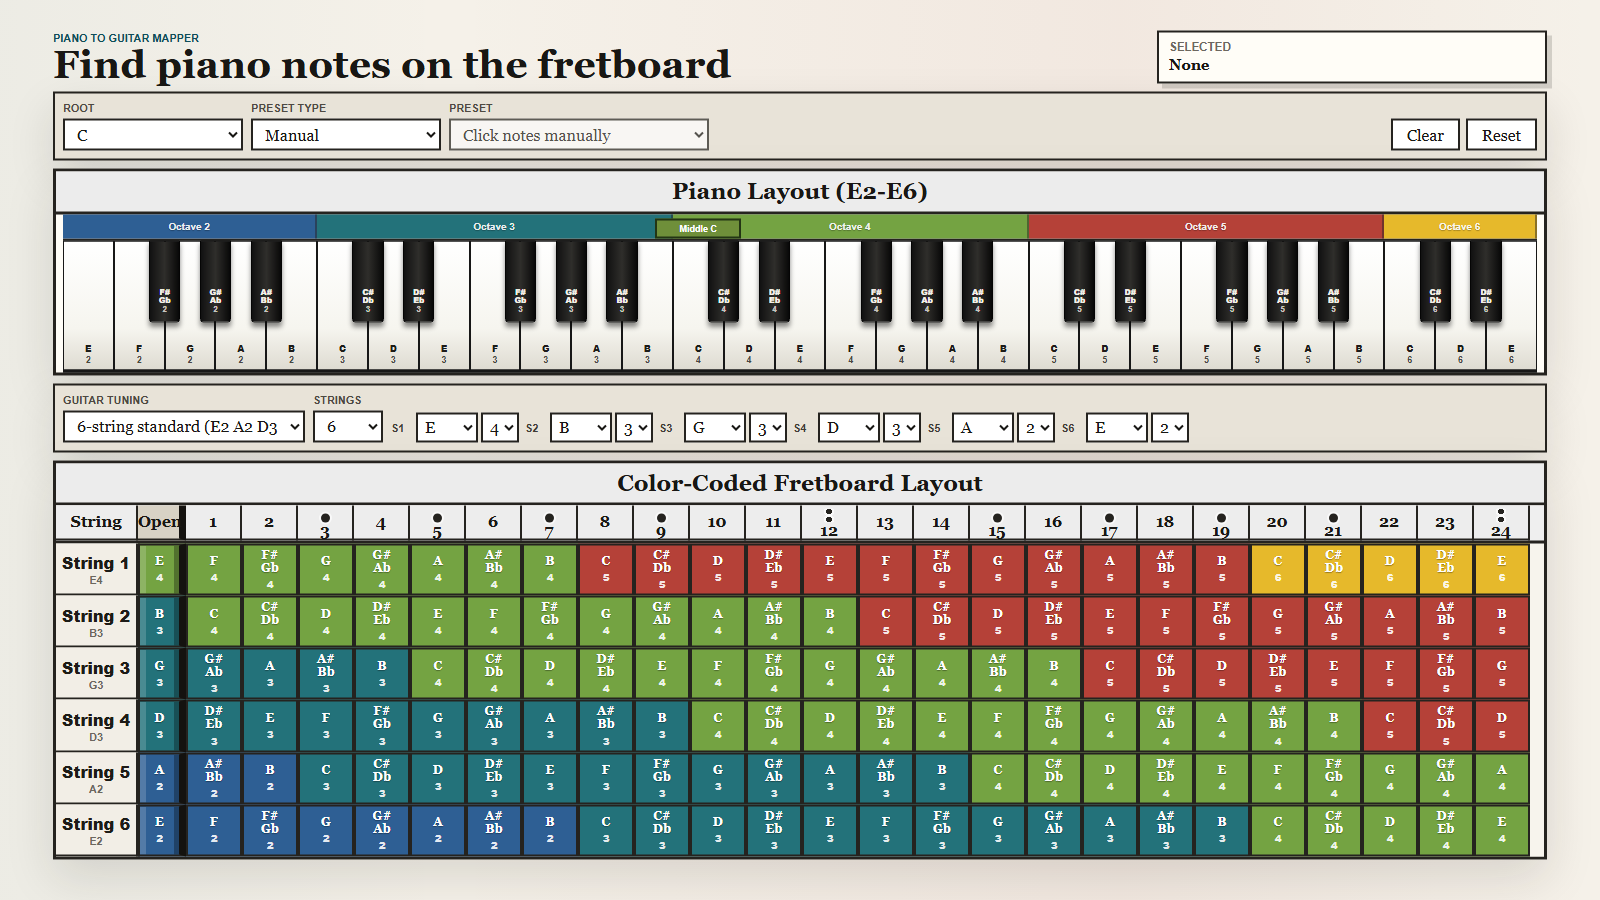
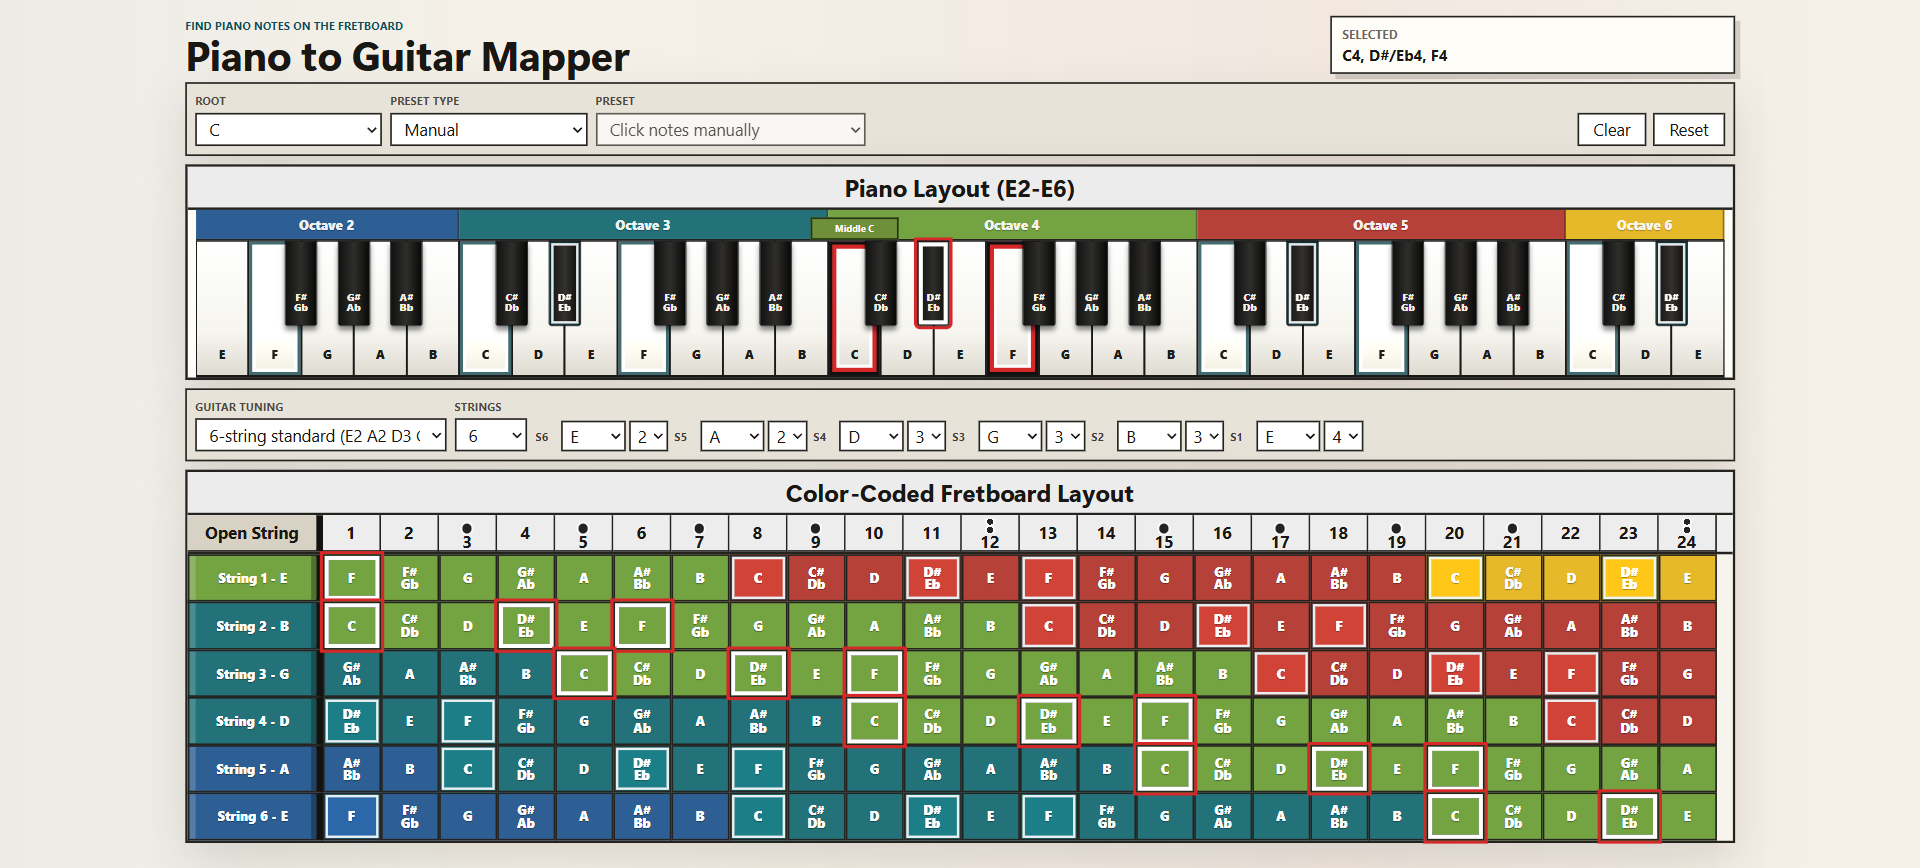
Add Open C tuning option; refactor UI elements and styles for consistency

diff --git a/styles.css b/styles.css
@@ -9,8 +9,7 @@
   --accent-strong: #0f4d59;
   --select: #ffffff;
   --shadow: 0 18px 45px rgba(31, 29, 24, 0.13);
-  --string-label-w: 82px;
-  --open-cell-w: 48px;
+  --open-string-w: 130px;
   --cell-w: 56px;
   --string-h: 46px;
   --white-key-w: 26px;
@@ -19,7 +18,9 @@
   --app-scale: 1;
   --app-left: 0px;
   --app-top: 0px;
-  font-family: Georgia, "Times New Roman", serif;
+  --font-ui: "Aptos", "Segoe UI Variable", "Segoe UI", "Inter", "Helvetica Neue", Arial, sans-serif;
+  --font-display: "Aptos Display", "Segoe UI Variable Display", "Segoe UI", "Inter", "Helvetica Neue", Arial, sans-serif;
+  font-family: var(--font-ui);
 }
 
 * {
@@ -68,7 +69,7 @@ select {
 .eyebrow {
   margin: 0 0 2px;
   color: var(--accent-strong);
-  font-family: Arial, Helvetica, sans-serif;
+  font-family: var(--font-ui);
   font-size: 0.68rem;
   font-weight: 700;
   letter-spacing: 0;
@@ -83,14 +84,18 @@ p {
 
 h1 {
   margin-bottom: 0;
+  font-family: var(--font-display);
   font-size: 2.45rem;
+  font-weight: 800;
   line-height: 0.98;
   letter-spacing: 0;
 }
 
 h2 {
   margin: 0;
+  font-family: var(--font-display);
   font-size: 1.45rem;
+  font-weight: 800;
   line-height: 1;
 }
 
@@ -107,7 +112,7 @@ h2 {
   display: block;
   margin-bottom: 3px;
   color: var(--muted);
-  font-family: Arial, Helvetica, sans-serif;
+  font-family: var(--font-ui);
   font-size: 0.72rem;
   font-weight: 700;
   letter-spacing: 0;
@@ -143,7 +148,7 @@ h2 {
 
 label {
   color: #4d4942;
-  font-family: Arial, Helvetica, sans-serif;
+  font-family: var(--font-ui);
   font-size: 0.68rem;
   font-weight: 700;
   letter-spacing: 0;
@@ -207,7 +212,7 @@ button:focus {
   position: relative;
   display: grid;
   width: max-content;
-  height: 26px;
+  height: 30px;
   border-bottom: 2px solid var(--line);
 }
 
@@ -218,9 +223,9 @@ button:focus {
   min-width: 0;
   border-right: 2px solid rgba(37, 35, 31, 0.48);
   color: rgba(255, 255, 255, 0.92);
-  font-family: Arial, Helvetica, sans-serif;
-  font-size: 0.62rem;
-  font-weight: 700;
+  font-family: var(--font-ui);
+  font-size: 0.78rem;
+  font-weight: 800;
   text-shadow: 0 1px 1px rgba(0, 0, 0, 0.28);
 }
 
@@ -270,27 +275,21 @@ button:focus {
 .key-label {
   position: absolute;
   right: 2px;
-  bottom: 5px;
+  bottom: 14px;
   left: 2px;
   color: #1d1c19;
-  font-family: Arial, Helvetica, sans-serif;
-  font-size: 0.58rem;
+  font-family: var(--font-ui);
+  font-size: 0.72rem;
   font-weight: 800;
-  line-height: 1.08;
+  line-height: 0.95;
   text-align: center;
+  white-space: normal;
 }
 
 .black .key-label {
-  bottom: 7px;
+  bottom: 12px;
   color: #f5f1e9;
-  font-size: 0.5rem;
-}
-
-.key-octave {
-  display: block;
-  margin-top: 1px;
-  font-weight: 700;
-  opacity: 0.78;
+  font-size: 0.62rem;
 }
 
 .key.middle-c::after {
@@ -305,7 +304,7 @@ button:focus {
   border: 2px solid #233514;
   background: #6f8f3a;
   color: #fff;
-  font-family: Arial, Helvetica, sans-serif;
+  font-family: var(--font-ui);
   font-size: 0.56rem;
   font-weight: 700;
   text-align: center;
@@ -373,7 +372,7 @@ button:focus {
 
 .string-editor span {
   color: #3f3b35;
-  font-family: Arial, Helvetica, sans-serif;
+  font-family: var(--font-ui);
   font-size: 0.68rem;
   font-weight: 700;
 }
@@ -397,7 +396,7 @@ button:focus {
 .fret-row,
 .fret-header {
   display: grid;
-  grid-template-columns: var(--string-label-w) var(--open-cell-w) repeat(24, var(--cell-w));
+  grid-template-columns: var(--open-string-w) repeat(24, var(--cell-w));
   width: max-content;
   min-width: 100%;
 }
@@ -409,7 +408,6 @@ button:focus {
 }
 
 .fret-head-cell,
-.string-label,
 .fret-cell {
   border-right: 2px solid var(--line);
   border-bottom: 2px solid var(--line);
@@ -453,27 +451,9 @@ button:focus {
   line-height: 1;
 }
 
-.fret-header .fret-head-cell:nth-child(2) {
+.fret-header .fret-head-cell:first-child {
   border-right: 7px solid #14120f;
   background: #d8d2c5;
-}
-
-.string-label {
-  display: grid;
-  place-items: center;
-  min-height: var(--string-h);
-  background: #f2eee6;
-  color: #1d1b17;
-  font-family: Arial, Helvetica, sans-serif;
-  font-weight: 800;
-}
-
-.string-label small {
-  display: block;
-  color: var(--muted);
-  font-size: 0.68rem;
-  font-weight: 700;
-  text-align: center;
 }
 
 .fret-cell {
@@ -495,6 +475,16 @@ button:focus {
     inset -5px 0 0 rgba(0, 0, 0, 0.3);
 }
 
+.open-string-label {
+  display: inline-block;
+  margin-right: 4px;
+  font-family: var(--font-ui);
+  font-size: 1em;
+  font-weight: inherit;
+  letter-spacing: 0;
+  text-shadow: 0 1px 1px rgba(0, 0, 0, 0.34);
+}
+
 .fret-cell.open.selected {
   box-shadow:
     inset 0 0 0 4px #111,
@@ -508,21 +498,13 @@ button:focus {
     inset -5px 0 0 rgba(0, 0, 0, 0.3);
 }
 
-.note-name {
+.note-line {
   display: block;
   font-size: 0.78rem;
   font-weight: 800;
-  line-height: 1.05;
+  line-height: 0.98;
+  white-space: normal;
   text-shadow: 0 1px 1px rgba(0, 0, 0, 0.34);
-}
-
-.note-octave {
-  display: block;
-  margin-top: 2px;
-  font-family: Arial, Helvetica, sans-serif;
-  font-size: 0.62rem;
-  font-weight: 800;
-  opacity: 0.88;
 }
 
 .oct-0,

diff --git a/app.js b/app.js
@@ -51,6 +51,7 @@
     { id: "standard-6", name: "6-string standard", notes: ["E2", "A2", "D3", "G3", "B3", "E4"] },
     { id: "drop-d", name: "Drop D", notes: ["D2", "A2", "D3", "G3", "B3", "E4"] },
     { id: "d-standard", name: "D standard", notes: ["D2", "G2", "C3", "F3", "A3", "D4"] },
+    { id: "open-c", name: "Open C", notes: ["C2", "G2", "C3", "G3", "C4", "E4"] },
     { id: "standard-7", name: "7-string standard", notes: ["B1", "E2", "A2", "D3", "G3", "B3", "E4"] },
     { id: "standard-8", name: "8-string standard", notes: ["F#1", "B1", "E2", "A2", "D3", "G3", "B3", "E4"] }
   ];
@@ -220,7 +221,7 @@
       if (midi === MIDDLE_C) {
         key.classList.add("middle-c");
       }
-      key.innerHTML = '<span class="key-label">' + pitchClassHtml(pc) + '<span class="key-octave">' + octave + "</span></span>";
+      key.innerHTML = '<span class="key-label">' + visualNoteHtml(midi) + "</span>";
       key.addEventListener("click", function () {
         toggleMidi(parseInt(this.dataset.midi, 10));
       });
@@ -263,8 +264,7 @@
 
     var header = document.createElement("div");
     header.className = "fret-header";
-    header.appendChild(makeHeaderCell("String"));
-    header.appendChild(makeHeaderCell("Open"));
+    header.appendChild(makeHeaderCell("Open String"));
     for (var fret = 1; fret <= MAX_FRET; fret += 1) {
       header.appendChild(makeHeaderCell(String(fret), fret));
     }
@@ -275,7 +275,6 @@
       var stringNumber = displayIndex + 1;
       var row = document.createElement("div");
       row.className = "fret-row";
-      row.appendChild(makeStringLabel(stringNumber, openMidi));
 
       for (var fret = 0; fret <= MAX_FRET; fret += 1) {
         var midi = openMidi + fret;
@@ -298,13 +297,6 @@
     return cell;
   }
 
-  function makeStringLabel(stringNumber, midi) {
-    var label = document.createElement("div");
-    label.className = "string-label";
-    label.innerHTML = '<span>String ' + stringNumber + "<small>" + fullNoteLabel(midi) + "</small></span>";
-    return label;
-  }
-
   function makeFretCell(midi, fret, stringNumber) {
     var pc = pitchClassFromMidi(midi);
     var octave = octaveFromMidi(midi);
@@ -314,7 +306,9 @@
     cell.dataset.pc = String(pc);
     cell.dataset.midi = String(midi);
     cell.setAttribute("aria-label", fullNoteLabel(midi) + ", fret " + fret + ", string " + stringNumber);
-    cell.innerHTML = '<span><span class="note-name">' + pitchClassHtml(pc) + '</span><span class="note-octave">' + octave + "</span></span>";
+    cell.innerHTML = fret === 0
+      ? '<span class="note-line"><span class="open-string-label">String ' + stringNumber + " - </span>" + visualNoteHtml(midi) + "</span>"
+      : '<span class="note-line">' + visualNoteHtml(midi) + "</span>";
     cell.addEventListener("click", function () {
       toggleMidi(parseInt(this.dataset.midi, 10));
     });
@@ -325,16 +319,16 @@
     els.customTuning.innerHTML = "";
     els.stringCount.value = String(state.tuning.length);
 
-    state.tuning.slice().reverse().forEach(function (midi, displayIndex) {
-      var internalIndex = state.tuning.length - displayIndex - 1;
+    state.tuning.forEach(function (midi, internalIndex) {
+      var stringNumber = state.tuning.length - internalIndex;
       var editor = document.createElement("div");
       editor.className = "string-editor";
 
       var label = document.createElement("span");
-      label.textContent = "S" + (displayIndex + 1);
+      label.textContent = "S" + stringNumber;
 
       var noteSelect = document.createElement("select");
-      noteSelect.setAttribute("aria-label", "String " + (displayIndex + 1) + " note");
+      noteSelect.setAttribute("aria-label", "String " + stringNumber + " note");
       NOTE_NAMES.forEach(function (note, pitchClass) {
         var option = document.createElement("option");
         option.value = String(pitchClass);
@@ -344,7 +338,7 @@
       noteSelect.value = String(pitchClassFromMidi(midi));
 
       var octaveSelect = document.createElement("select");
-      octaveSelect.setAttribute("aria-label", "String " + (displayIndex + 1) + " octave");
+      octaveSelect.setAttribute("aria-label", "String " + stringNumber + " octave");
       for (var octave = 0; octave <= 5; octave += 1) {
         var option = document.createElement("option");
         option.value = String(octave);
@@ -422,10 +416,9 @@
 
   function getGuitarChartWidth() {
     var styles = getComputedStyle(document.documentElement);
-    var stringLabelWidth = parseFloat(styles.getPropertyValue("--string-label-w")) || 82;
-    var openCellWidth = parseFloat(styles.getPropertyValue("--open-cell-w")) || 48;
+    var openStringWidth = parseFloat(styles.getPropertyValue("--open-string-w")) || 130;
     var fretCellWidth = parseFloat(styles.getPropertyValue("--cell-w")) || 56;
-    return stringLabelWidth + openCellWidth + MAX_FRET * fretCellWidth;
+    return openStringWidth + MAX_FRET * fretCellWidth;
   }
 
   function scheduleFit() {
@@ -561,12 +554,15 @@
     return note.natural ? note.sharp : note.sharp + "/" + note.flat;
   }
 
-  function pitchClassHtml(pitchClass) {
-    var label = pitchClassLabel(pitchClass);
-    return label.replace("/", "<br>");
-  }
-
   function fullNoteLabel(midi) {
     return pitchClassLabel(pitchClassFromMidi(midi)) + octaveFromMidi(midi);
+  }
+
+  function visualNoteLabel(midi) {
+    return pitchClassLabel(pitchClassFromMidi(midi));
+  }
+
+  function visualNoteHtml(midi) {
+    return visualNoteLabel(midi).replace("/", "<br>");
   }
 })();

diff --git a/index.html b/index.html
@@ -10,8 +10,8 @@
     <main class="app">
       <header class="app-header">
         <div>
-          <p class="eyebrow">Piano to guitar mapper</p>
-          <h1>Find piano notes on the fretboard</h1>
+          <p class="eyebrow">Find piano notes on the fretboard</p>
+          <h1>Piano to Guitar Mapper</h1>
         </div>
         <div class="selection-readout" aria-live="polite">
           <span class="readout-label">Selected</span>